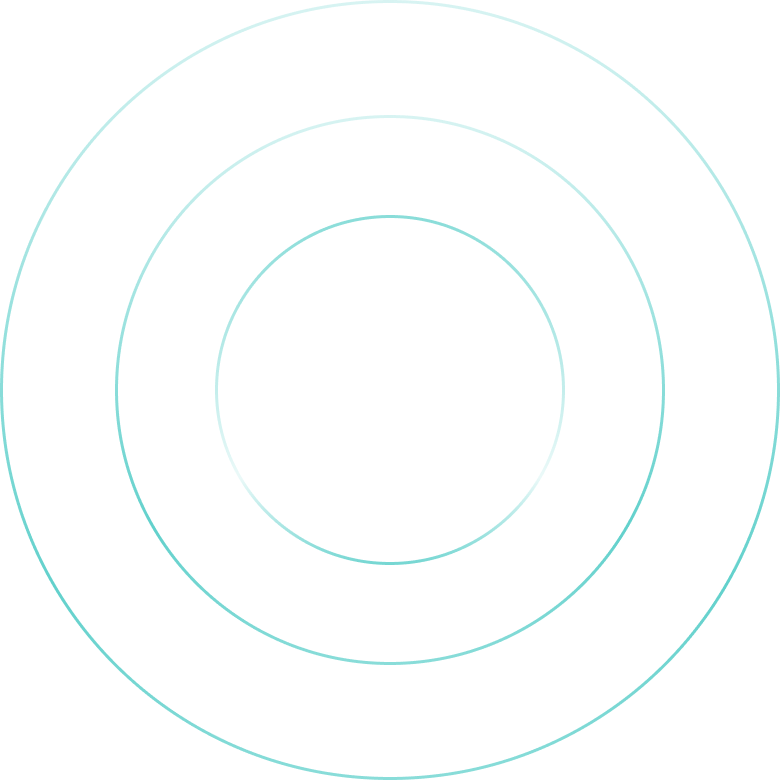
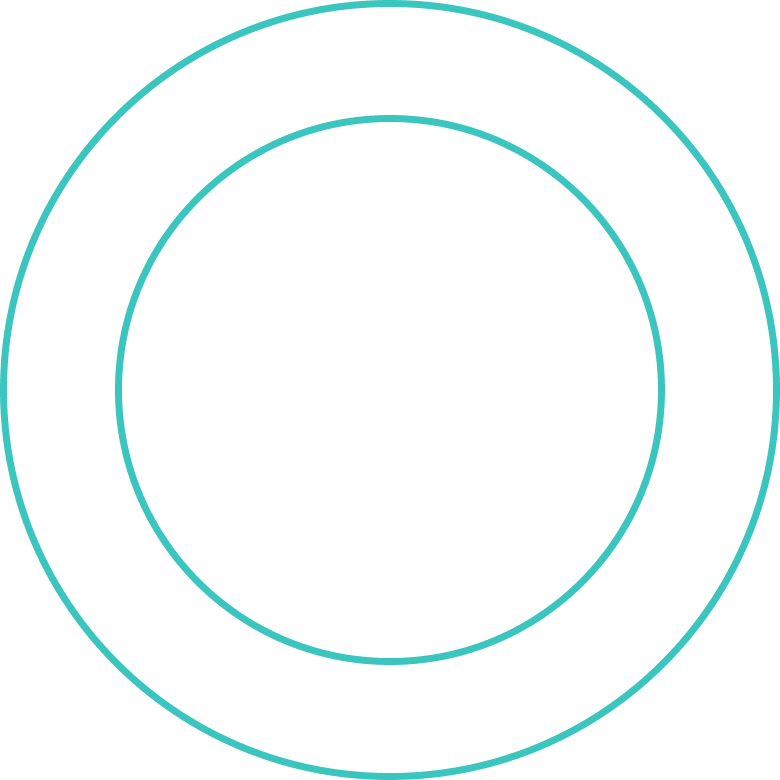
fix: 온보딩 페이지 물결 및 화면 전환 효과 변경

diff --git a/FE/components/onboarding/OnboardingStepPage.tsx b/FE/components/onboarding/OnboardingStepPage.tsx
@@ -28,6 +28,8 @@ type FlowState = {
   retryPetName: boolean;
 };
 
+const DISSOLVE_DURATION_MS = 0;
+
 function HandHint() {
   return (
     <div className="pointer-events-none absolute top-[55%] left-[40%] z-40 h-[96px] w-[96px] translate-x-[48px] md:h-[112px] md:w-[112px] md:translate-x-[56px] lg:h-[128px] lg:w-[128px] lg:translate-x-[64px]">
@@ -84,10 +86,12 @@ export default function OnboardingStepPage({
   const router = useRouter();
   const searchParams = useSearchParams();
   const fileInputRef = useRef<HTMLInputElement | null>(null);
+  const navigationTimeoutRef = useRef<number | null>(null);
   const [isUploadModalOpen, setIsUploadModalOpen] = useState(false);
   const [pendingImagePreviewUrl, setPendingImagePreviewUrl] = useState('');
   const [pendingImageFile, setPendingImageFile] = useState<File | null>(null);
   const [isUploading, setIsUploading] = useState(false);
+  const [isLeaving, setIsLeaving] = useState(false);
 
   const step = getOnboardingStep(stepNumber);
   const retryPetName = searchParams.get('retryPetName') === '1';
@@ -108,6 +112,14 @@ export default function OnboardingStepPage({
   }, [pendingImagePreviewUrl]);
 
   useEffect(() => {
+    return () => {
+      if (navigationTimeoutRef.current !== null) {
+        window.clearTimeout(navigationTimeoutRef.current);
+      }
+    };
+  }, []);
+
+  useEffect(() => {
     if (
       step.autoAdvanceDelay === undefined ||
       stepNumber >= LAST_ONBOARDING_STEP
@@ -116,13 +128,13 @@ export default function OnboardingStepPage({
     }
 
     const timeoutId = window.setTimeout(() => {
-      router.replace(buildOnboardingHref(stepNumber + 1, flowState));
+      navigateWithDissolve(buildOnboardingHref(stepNumber + 1, flowState));
     }, step.autoAdvanceDelay);
 
     return () => {
       window.clearTimeout(timeoutId);
     };
-  }, [flowState, router, step.autoAdvanceDelay, stepNumber]);
+  }, [flowState, step.autoAdvanceDelay, stepNumber]);
 
   const messageOverride =
     retryPetName && step.id === 'pet-name-guide'
@@ -134,8 +146,27 @@ export default function OnboardingStepPage({
     ? petImage || undefined
     : undefined;
 
+  const navigateWithDissolve = (
+    href: string,
+    mode: 'replace' | 'push' = 'replace',
+  ) => {
+    if (isLeaving) {
+      return;
+    }
+
+    setIsLeaving(true);
+    navigationTimeoutRef.current = window.setTimeout(() => {
+      if (mode === 'push') {
+        router.push(href);
+        return;
+      }
+
+      router.replace(href);
+    }, DISSOLVE_DURATION_MS);
+  };
+
   const goToStep = (targetStep: number, state: FlowState) => {
-    router.replace(buildOnboardingHref(targetStep, state));
+    navigateWithDissolve(buildOnboardingHref(targetStep, state));
   };
 
   const handlePhotoUploadRequest = () => {
@@ -270,7 +301,12 @@ export default function OnboardingStepPage({
         className="hidden"
         onChange={handlePhotoFileChange}
       />
-      <div className="relative min-h-dvh overflow-hidden bg-[#A7E9E1]">
+      <div
+        className={`relative min-h-dvh overflow-hidden bg-[#A7E9E1] transition-opacity ease-out ${
+          isLeaving ? 'opacity-0' : 'animate-screen-dissolve-in opacity-100'
+        }`}
+        style={{ transitionDuration: `${DISSOLVE_DURATION_MS}ms` }}
+      >
         <OnboardingBackground
           bubbleMessage={messageOverride ?? step.message}
           centerImageUrl={centerImageUrl}
@@ -301,7 +337,7 @@ export default function OnboardingStepPage({
               <div className="pointer-events-auto absolute right-0 bottom-[9%] left-0 z-20 px-6 md:bottom-[8%] md:px-8 lg:bottom-[7%] lg:px-10">
                 <Button
                   className="mx-auto w-full"
-                  onClick={() => router.push('/home')}
+                  onClick={() => navigateWithDissolve('/home', 'push')}
                 >
                   시작하기
                 </Button>

diff --git a/FE/components/onboarding/OnboardingBackground.tsx b/FE/components/onboarding/OnboardingBackground.tsx
@@ -17,28 +17,32 @@ export default function OnboardingBackground({
   centerImageUrl,
   instructionMessage,
 }: OnboardingBackgroundProps) {
+  const centerMediaClassName = centerImageUrl
+    ? 'h-[220px] w-[220px] md:h-[260px] md:w-[260px] lg:h-[300px] lg:w-[300px]'
+    : 'h-[180px] w-[180px] md:h-[240px] md:w-[240px] lg:h-[280px] lg:w-[280px]';
+
   return (
     <div className="relative min-h-dvh overflow-hidden bg-[#A7E9E1]">
-      <div className="pointer-events-none absolute inset-0 animate-breathing-circle">
+      <div
+        className={`-translate-x-1/2 -translate-y-1/2 pointer-events-none absolute top-1/2 left-1/2 ${centerMediaClassName} animate-ripple-circle`}
+      >
         <Image
           src="/images/onboarding/circle2.png"
           alt=""
-          fill
+          width={300}
+          height={300}
           priority
-          className="object-contain object-center opacity-90"
+          className="h-full w-full object-contain opacity-80"
         />
       </div>
       <div className="-translate-x-1/2 -translate-y-1/2 absolute top-1/2 left-1/2">
         {centerImageUrl ? (
           <PetProfileImage
             imageUrl={centerImageUrl}
-            className="h-[220px] w-[220px] cursor-default md:h-[260px] md:w-[260px] lg:h-[300px] lg:w-[300px]"
+            className={`${centerMediaClassName} cursor-default`}
           />
         ) : (
-          <EmptyState
-            size={1}
-            className="h-[180px] w-[180px] md:h-[240px] md:w-[240px] lg:h-[280px] lg:w-[280px]"
-          />
+          <EmptyState size={1} className={centerMediaClassName} />
         )}
       </div>
       {bubbleMessage ? (

diff --git a/FE/app/globals.css b/FE/app/globals.css
@@ -147,13 +147,18 @@
   }
 }
 
-@keyframes breathing-circle {
-  0%,
-  100% {
-    transform: scale(1) translate3d(0, 0, 0);
+@keyframes ripple-circle {
+  0% {
+    transform: scale(1);
+    opacity: 0.78;
   }
-  50% {
-    transform: scale(2) translate3d(0, 0, 0);
+  55% {
+    transform: scale(1.7);
+    opacity: 0.18;
+  }
+  100% {
+    transform: scale(1.7);
+    opacity: 0;
   }
 }
 
@@ -162,10 +167,10 @@
     animation: screen-dissolve-in 400ms ease-in-out both;
   }
 
-  .animate-breathing-circle {
-    animation: breathing-circle 4.8s ease-in-out infinite;
+  .animate-ripple-circle {
+    animation: ripple-circle 2.1s cubic-bezier(0.22, 0.61, 0.36, 1) infinite;
     transform-origin: center;
-    will-change: transform;
+    will-change: transform, opacity;
   }
 
   /* Modal animations */

diff --git a/FE/app/onboarding/layout.tsx b/FE/app/onboarding/layout.tsx
@@ -1,0 +1,9 @@
+import type { ReactNode } from 'react';
+
+type OnboardingLayoutProps = {
+  children: ReactNode;
+};
+
+export default function OnboardingLayout({ children }: OnboardingLayoutProps) {
+  return <div className="min-h-dvh bg-[#A7E9E1]">{children}</div>;
+}
